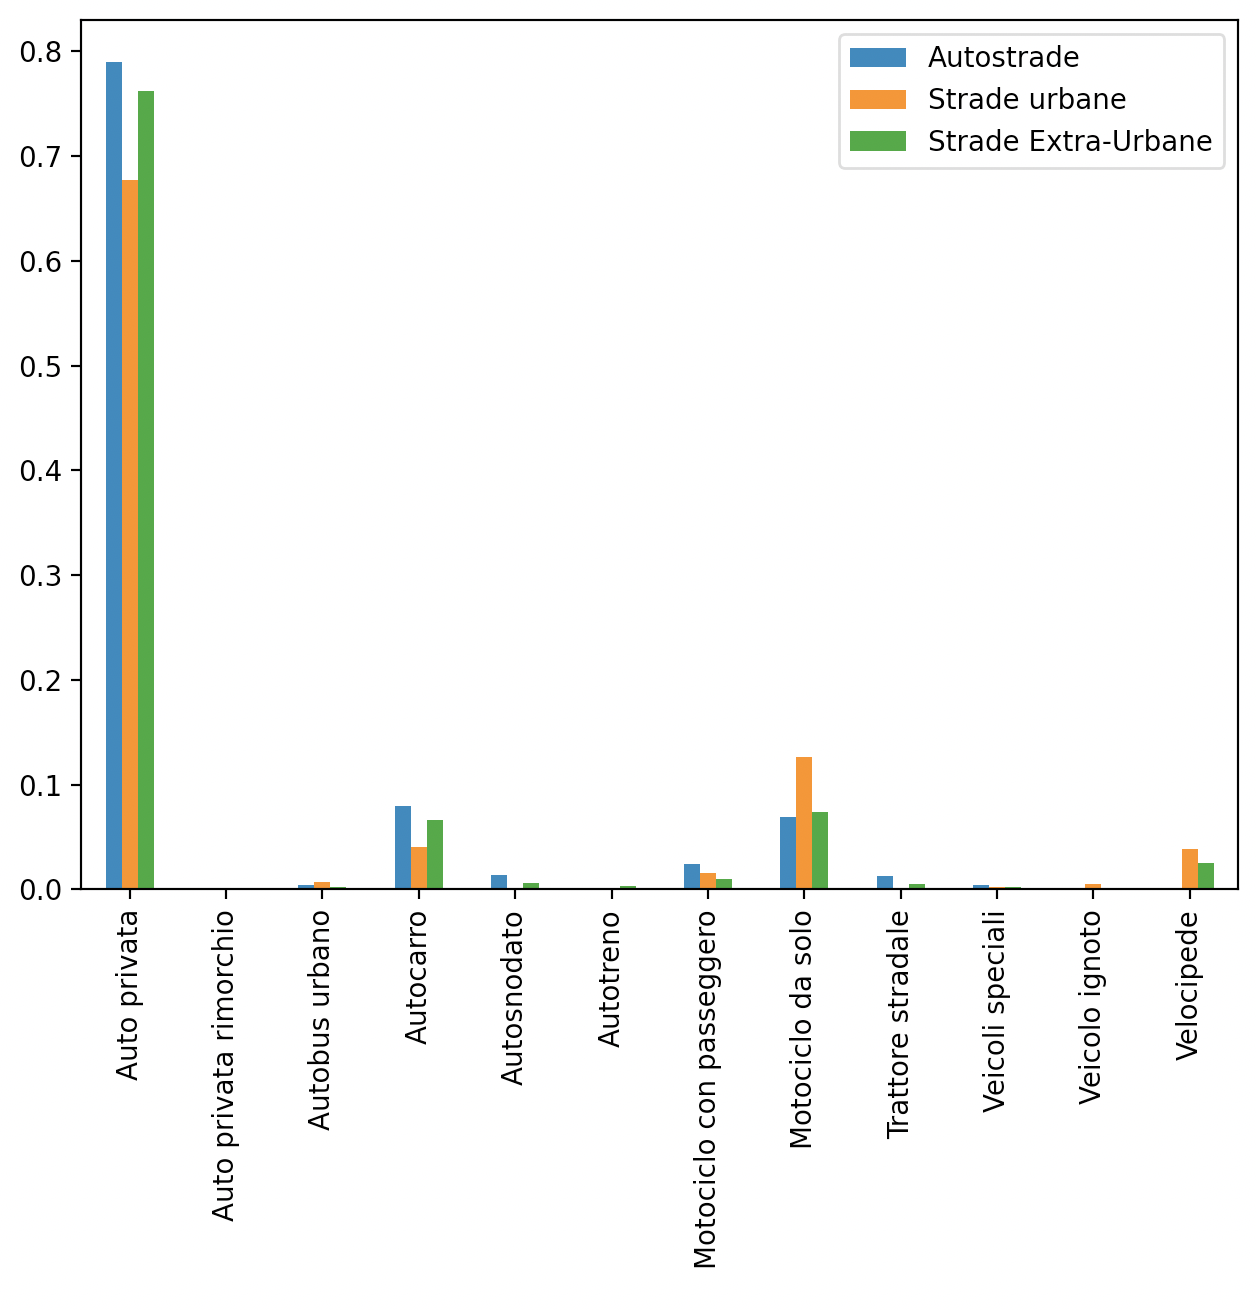
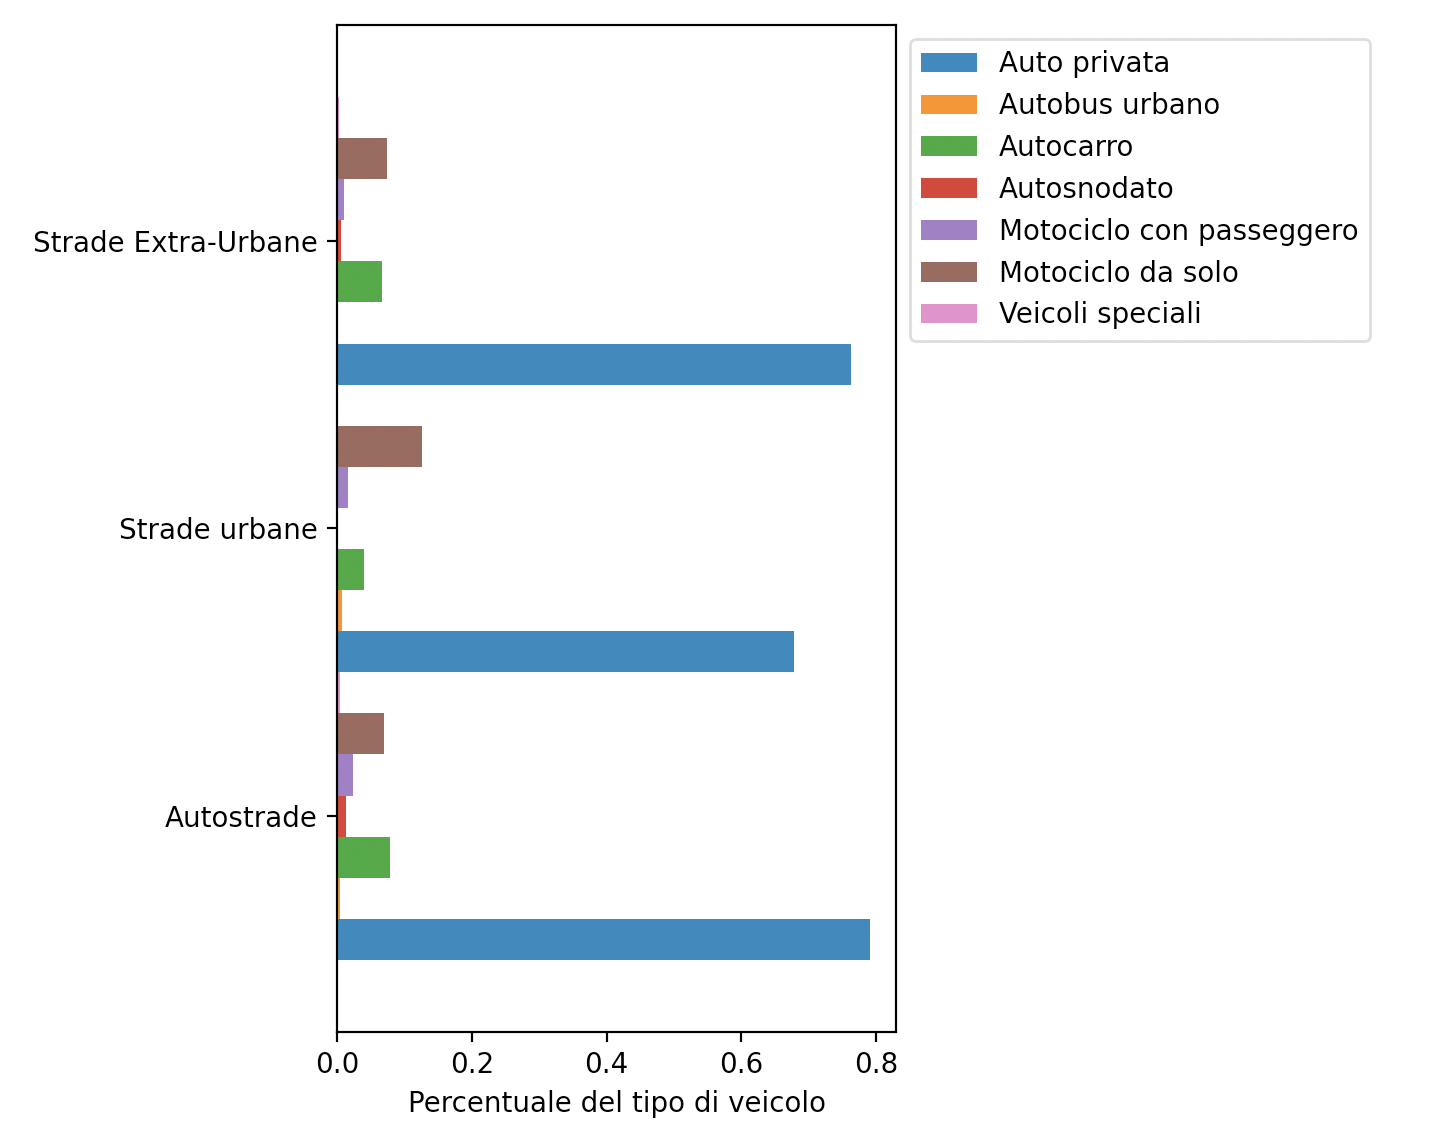
aggiunto codice e modificato grafo

diff --git a/src/incidenti/incidenti_senza_coords/tipo_veicoli/tipo_veicoli.py b/src/incidenti/incidenti_senza_coords/tipo_veicoli/tipo_veicoli.py
@@ -9,12 +9,12 @@ path = "dataset/incidenti/incidenti_2010.txt"
 
 data = pd.read_csv(path, sep="\t")
 
-#tipo_veicoli = data['tipo_veicolo_a']
-#tipo_veicoli = label_utils.join_labels(tipo_veicoli, "dataset/incidenti/Classificazioni/tipo_veicoli__b_.csv").value_counts().sort_index()
-#print(tipo_veicoli)
+# tipo_veicoli = data['tipo_veicolo_a']
+# tipo_veicoli = label_utils.join_labels(tipo_veicoli, "dataset/incidenti/Classificazioni/tipo_veicoli__b_.csv").value_counts().sort_index()
+# print(tipo_veicoli)
 
-#tipo_veicoli.plot.barh()
-#plt.show()
+# tipo_veicoli.plot.barh()
+# plt.show()
 
 # I principali veicoli coinvolti sono: 
 #   - auto private
@@ -22,32 +22,36 @@ data = pd.read_csv(path, sep="\t")
 #   - autocarri
 
 # Cambia se seleziono strade differenti?
-#autostrade_veicoli = data[data['localizzazione_incidente'] == 7]['tipo_veicolo_a']
-#autostrade_veicoli = label_utils.join_labels(autostrade_veicoli, "dataset/incidenti/Classificazioni/tipo_veicoli__b_.csv").value_counts(normalize=True).sort_index()
+tipo_veicoli = data['tipo_veicolo_a'].value_counts(normalize=True).sort_index()
+autostrade_veicoli = data[data['localizzazione_incidente'] == 7]['tipo_veicolo_a']
+autostrade_veicoli = label_utils.join_labels(autostrade_veicoli, "dataset/incidenti/Classificazioni/tipo_veicoli__b_.csv").value_counts(normalize=True).sort_index()
 
-#uniti = pd.DataFrame([
-#    tipo_veicoli, autostrade_veicoli
-#], index=['tutti', 'autostrade']).transpose()
+uniti = pd.DataFrame([
+   tipo_veicoli, autostrade_veicoli
+], index=['tutti', 'autostrade']).transpose()
 
-#autostrade_veicoli.plot.barh()
-#plt.show()
+# autostrade_veicoli.plot.barh()
+# plt.show()
 
-#strade_urbane = data[(data['localizzazione_incidente'] == 1) | (data['localizzazione_incidente'] == 2) | (data['localizzazione_incidente'] == 3)]['tipo_veicolo_a']
-#strade_urbane = label_utils.join_labels(strade_urbane, "dataset/incidenti/Classificazioni/tipo_veicoli__b_.csv").value_counts(normalize=True).sort_index()
+strade_urbane = data[(data['localizzazione_incidente'] == 1) | (data['localizzazione_incidente'] == 2) | (data['localizzazione_incidente'] == 3)]['tipo_veicolo_a']
+strade_urbane = label_utils.join_labels(strade_urbane, "dataset/incidenti/Classificazioni/tipo_veicoli__b_.csv").value_counts(normalize=True).sort_index()
 
 #strade_urbane.plot.barh()
 #plt.show()
 
-#strade_extraurbane = data[(data['localizzazione_incidente'] == 4) | (data['localizzazione_incidente'] == 5) | (data['localizzazione_incidente'] == 6)]['tipo_veicolo_a']
-#strade_extraurbane = label_utils.join_labels(strade_extraurbane, "dataset/incidenti/Classificazioni/tipo_veicoli__b_.csv").value_counts(normalize=True).sort_index()
+strade_extraurbane = data[(data['localizzazione_incidente'] == 4) | (data['localizzazione_incidente'] == 5) | (data['localizzazione_incidente'] == 6)]['tipo_veicolo_a']
+strade_extraurbane = label_utils.join_labels(strade_extraurbane, "dataset/incidenti/Classificazioni/tipo_veicoli__b_.csv").value_counts(normalize=True).sort_index()
 
-#uniti = pd.DataFrame([
-#    autostrade_veicoli, strade_urbane, strade_extraurbane
-#], index=['Autostrade', 'Strade urbane', 'Strade Extra-Urbane']).transpose()
+uniti = pd.DataFrame([
+   autostrade_veicoli, strade_urbane, strade_extraurbane
+], index=['Autostrade', 'Strade urbane', 'Strade Extra-Urbane']).transpose()
 
-#uniti[uniti > 0.001].dropna().plot.bar()
-#plt.tight_layout()
-#plt.show()
+uniti[uniti > 0.001].dropna().transpose().plot.barh(width=1)
+plt.xlabel("Percentuale del tipo di veicolo")
+plt.yticks()
+plt.legend(bbox_to_anchor=(1,1), loc="upper left")
+plt.tight_layout()
+plt.show()
 
 # Nelle strade urbane ci sono molti più incidenti con velocipedi e ciclomotori, 
 # mentre nelle autostrade con autocarri e automobili

diff --git a/tesi/Tesi.tex b/tesi/Tesi.tex
@@ -393,17 +393,41 @@ nell'incidente, oltre al tipo di veicoli.
 %\clearpage
 \subsection{Il tipo di veicolo dipende dalla strada?}
 
+\begin{lstlisting}
+tipo_veicoli = data['tipo_veicolo_a'].value_counts(normalize=True).sort_index()
+autostrade_veicoli = data[data['localizzazione_incidente'] == 7]['tipo_veicolo_a']
+autostrade_veicoli = label_utils.join_labels(autostrade_veicoli, "dataset/incidenti/Classificazioni/tipo_veicoli__b_.csv").value_counts(normalize=True).sort_index()
+
+strade_urbane = data[(data['localizzazione_incidente'] == 1) | (data['localizzazione_incidente'] == 2) | (data['localizzazione_incidente'] == 3)]['tipo_veicolo_a']
+strade_urbane = label_utils.join_labels(strade_urbane, "dataset/incidenti/Classificazioni/tipo_veicoli__b_.csv").value_counts(normalize=True).sort_index()
+
+strade_extraurbane = data[(data['localizzazione_incidente'] == 4) | (data['localizzazione_incidente'] == 5) | (data['localizzazione_incidente'] == 6)]['tipo_veicolo_a']
+strade_extraurbane = label_utils.join_labels(strade_extraurbane, "dataset/incidenti/Classificazioni/tipo_veicoli__b_.csv").value_counts(normalize=True).sort_index()
+
+uniti = pd.DataFrame([
+   autostrade_veicoli, strade_urbane, strade_extraurbane
+], index=['Autostrade', 'Strade urbane', 'Strade Extra-Urbane']).transpose()
+
+uniti[uniti > 0.001].dropna().transpose().plot.barh(width=1)
+plt.xlabel("Percentuale del tipo di veicolo")
+plt.yticks()
+plt.legend(bbox_to_anchor=(1,1), loc="upper left")
+plt.tight_layout()
+plt.show()
+\end{lstlisting}
+
 \begin{figure}
     \includegraphics[width=\linewidth]{../src/incidenti/incidenti_senza_coords/tipo_veicoli/differenza_strade.png}
     \caption{Incidenti per tipo di veicolo nel 2010}
     \label{fig:differenza-strade}
 \end{figure}
 
-Dal grafo \ref{fig:differenza-strade}
-è possibile notare che, nonostante le auto private siano di gran lunga il tipo di veicolo 
-più coinvolto in incidenti, nelle autostrade non sono presenti incidenti con velocipedi, 
-anche il numero di incidenti con motocicli è ridotto, mentre cresce molto nelle strade urbane.
-
+Il grafo \ref{fig:differenza-strade} rappresenta quali sono i veicoli coinvolti con più frequenza 
+in sinistri, per tre tipi di strade diverse. Le percentuali sono calcolate per gruppo, quindi sommando 
+tutte le righe di, per esempio Autostrade, si ottiene $1$.\\
+Nonostante le auto private siano di gran lunga il tipo di veicolo 
+più coinvolto in incidenti, nelle autostrade non sono presenti molti incidenti con motocicli, 
+mentre cresce molto il numero di questi nelle strade urbane.
 
 %\clearpage
 \section{Dati Istat su conducente}

diff --git a/src/incidenti/incidenti_senza_coords/localizzazione_incidente/strada.py b/src/incidenti/incidenti_senza_coords/localizzazione_incidente/strada.py
@@ -34,8 +34,6 @@ pavimentazione = data['pavimentazione']
 # Per volume le strade pavimentate hanno più incidenti...
 # Per caso influisce fatto che alcune strade hanno pavimentazione a blocchi (PAVE')?
 
-# TODO: trovare / creare mappa con pave a milano e confrontare con mappa incidenti
-
 segnaletica = data['segnaletica']
 #print(segnaletica.unique())
 
